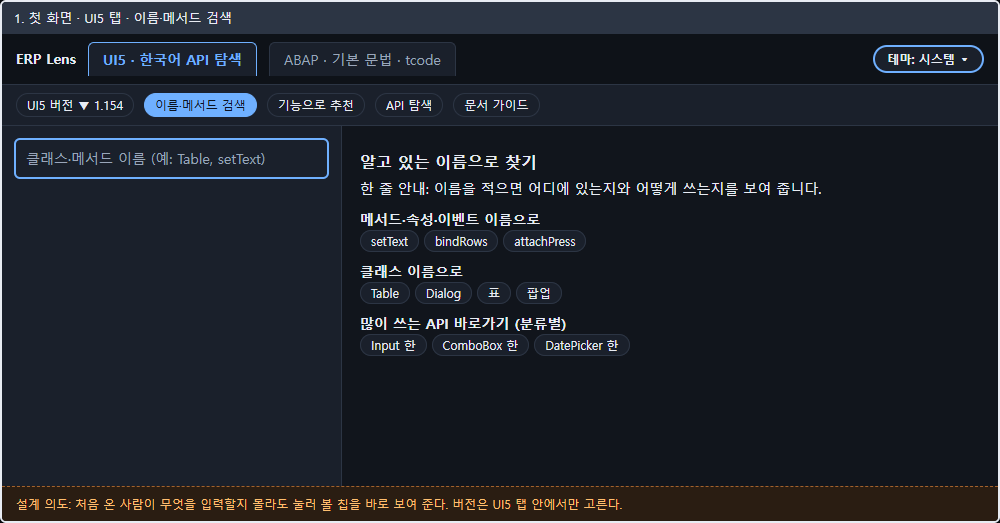
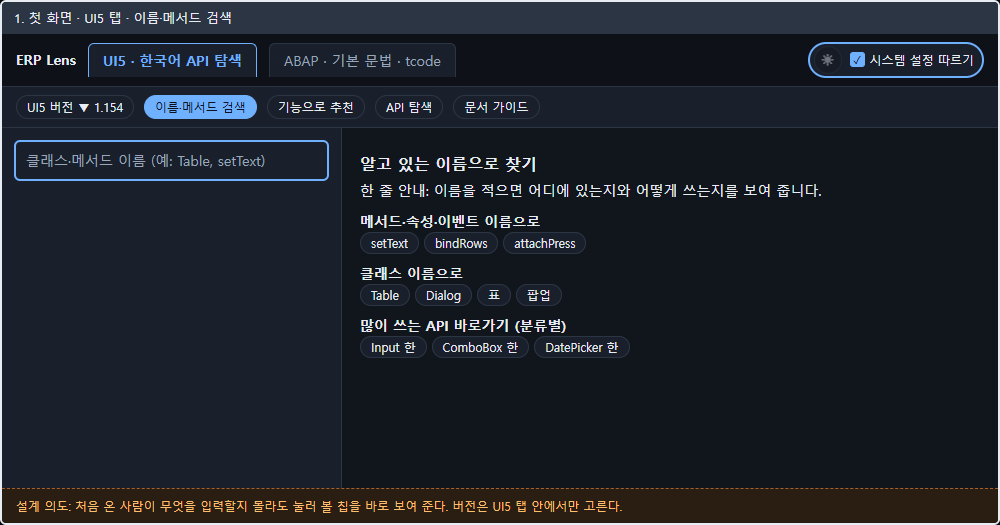
목업 수정: 테마 선택을 낮/밤 아이콘 버튼 + 시스템 설정 따르기 체크박스로 변경

diff --git a/docs/mockups/screens.html b/docs/mockups/screens.html
@@ -40,9 +40,15 @@
   .note { background:var(--warn); border:1px solid var(--warn-line); border-radius:6px; padding:6px 10px; font-size:12px; margin:8px 0; }
   .ann { margin:0; padding:8px 14px; background:var(--ann-bg); border-top:1px dashed var(--ann-line); font-size:12px; color:var(--ann-ink); }
   .muted { color:var(--mute); }
-  .theme { margin-left:auto; padding:3px 12px; border:1px solid var(--line); border-radius:999px; background:var(--box); font-size:12px; }
-  .theme.hl { border:2px solid var(--accent); font-weight:700; }
   .states { display:flex; gap:16px; padding:16px 18px; flex-wrap:wrap; }
+  .tctl { margin-left:auto; display:flex; align-items:center; gap:8px; padding:2px 8px 2px 4px; border:1px solid var(--line); border-radius:999px; background:var(--box); font-size:12px; }
+  .tctl.hl { border:2px solid var(--accent); }
+  .ibtn { display:inline-flex; width:28px; height:28px; align-items:center; justify-content:center; border:1px solid var(--line); border-radius:50%; background:var(--bg); font-size:15px; }
+  .ibtn.off { opacity:.4; }
+  .sys { display:flex; align-items:center; gap:5px; }
+  .cb { display:inline-flex; width:15px; height:15px; align-items:center; justify-content:center; border:1.5px solid var(--mute); border-radius:3px; font-size:11px; line-height:1; }
+  .cb.on { background:var(--accent); border-color:var(--accent); color:var(--on); }
+  .demo { display:flex; align-items:center; gap:8px; margin:6px 0; padding:4px 8px; border:1px solid var(--line); border-radius:999px; width:max-content; font-size:12px; }
   .st { border:1px solid var(--line); border-radius:8px; padding:10px 14px; background:var(--box); min-width:260px; flex:1; }
 </style>
 </head>
@@ -51,7 +57,7 @@
 
 <section class="screen" id="m1">
   <div class="cap">1. 첫 화면 · UI5 탭 · 이름·메서드 검색</div>
-  <div class="bar"><span class="logo">ERP Lens</span><span class="tab on">UI5 · 한국어 API 탐색</span><span class="tab abap">ABAP · 기본 문법 · tcode</span><span class="theme hl">테마: 시스템 ▾</span></div>
+  <div class="bar"><span class="logo">ERP Lens</span><span class="tab on">UI5 · 한국어 API 탐색</span><span class="tab abap">ABAP · 기본 문법 · tcode</span><span class="tctl hl"><span class="ibtn off" title="시스템 설정을 따르는 중">☀</span><label class="sys"><span class="cb on">✓</span> 시스템 설정 따르기</label></span></div>
   <div class="sub"><span class="chip">UI5 버전 ▼ 1.154</span><span class="chip on">이름·메서드 검색</span><span class="chip">기능으로 추천</span><span class="chip">API 탐색</span><span class="chip">문서 가이드</span></div>
   <div class="cols">
     <div class="left"><div class="input">클래스·메서드 이름 (예: Table, setText)</div></div>
@@ -68,7 +74,7 @@
 
 <section class="screen" id="m2">
   <div class="cap">2. 검색 결과 + API 상세 (왼쪽 후보, 오른쪽 상세)</div>
-  <div class="bar"><span class="logo">ERP Lens</span><span class="tab on">UI5</span><span class="tab abap">ABAP</span><span class="theme hl">테마: 시스템 ▾</span></div>
+  <div class="bar"><span class="logo">ERP Lens</span><span class="tab on">UI5</span><span class="tab abap">ABAP</span><span class="tctl hl"><span class="ibtn off" title="시스템 설정을 따르는 중">☀</span><label class="sys"><span class="cb on">✓</span> 시스템 설정 따르기</label></span></div>
   <div class="sub"><span class="chip on">전체 227</span><span class="chip">클래스 153</span><span class="chip">메서드 31</span><span class="chip">속성 31</span><span class="chip">이벤트 5</span></div>
   <div class="cols">
     <div class="left">
@@ -89,7 +95,7 @@
 
 <section class="screen" id="m3">
   <div class="cap">3. ABAP 탭 · 문법 사전</div>
-  <div class="bar"><span class="logo">ERP Lens</span><span class="tab">UI5</span><span class="tab on abap">ABAP · 65개+15개</span><span class="theme hl">테마: 시스템 ▾</span></div>
+  <div class="bar"><span class="logo">ERP Lens</span><span class="tab">UI5</span><span class="tab on abap">ABAP · 65개+15개</span><span class="tctl hl"><span class="ibtn off" title="시스템 설정을 따르는 중">☀</span><label class="sys"><span class="cb on">✓</span> 시스템 설정 따르기</label></span></div>
   <div class="sub"><span class="chip on abap">문법 사전 · 65개</span><span class="chip">tcode 사전 · 15개</span><span class="chip">버전 구분 없음</span></div>
   <div class="sub"><span class="chip on abap">전체 65</span><span class="chip">선언·데이터</span><span class="chip">제어문</span><span class="chip">내부 테이블</span><span class="chip">모듈화</span><span class="chip">…</span></div>
   <div class="cols">
@@ -113,7 +119,7 @@ DATA lv_name  TYPE string VALUE 'Kim'.</div>
 
 <section class="screen" id="m4">
   <div class="cap">4. ABAP 탭 · tcode 사전 (하고 싶은 일 또는 /n 명령으로 검색)</div>
-  <div class="bar"><span class="logo">ERP Lens</span><span class="tab">UI5</span><span class="tab on abap">ABAP</span><span class="theme hl">테마: 시스템 ▾</span></div>
+  <div class="bar"><span class="logo">ERP Lens</span><span class="tab">UI5</span><span class="tab on abap">ABAP</span><span class="tctl hl"><span class="ibtn off" title="시스템 설정을 따르는 중">☀</span><label class="sys"><span class="cb on">✓</span> 시스템 설정 따르기</label></span></div>
   <div class="sub"><span class="chip">문법 사전</span><span class="chip on abap">tcode 사전 · 15개</span></div>
   <div class="cols">
     <div class="left">
@@ -130,18 +136,24 @@ DATA lv_name  TYPE string VALUE 'Kim'.</div>
   <p class="ann">설계 의도: "/nse38" 처럼 명령을 붙여 쓰면 명령(/n)과 tcode(SE38)로 나누어 설명한다.</p>
 </section>
 <section class="screen" id="m5">
-  <div class="cap">5. 테마 선택 (새 기능) · 상단 바 오른쪽 버튼 하나, 누를 때마다 순서대로 바뀜</div>
-  <div class="bar"><span class="logo">ERP Lens</span><span class="tab on">UI5</span><span class="tab abap">ABAP</span><span class="theme hl">테마: 시스템 ▾</span></div>
+  <div class="cap">5. 테마 선택 (새 기능) · 낮/밤 아이콘 버튼 + "시스템 설정 따르기" 체크박스</div>
+  <div class="bar"><span class="logo">ERP Lens</span><span class="tab on">UI5</span><span class="tab abap">ABAP</span><span class="tctl hl"><span class="ibtn off">☀</span><label class="sys"><span class="cb on">✓</span> 시스템 설정 따르기</label></span></div>
   <div class="states">
-    <div class="st"><b>① 시스템 (기본값)</b><div>버튼 글자: <span class="chip">테마: 시스템</span></div><div class="muted">내 컴퓨터가 다크면 다크, 라이트면 라이트로 보입니다. 저장된 선택이 없을 때의 상태입니다.</div></div>
-    <div class="st"><b>② 라이트</b><div>버튼 글자: <span class="chip">테마: 라이트</span></div><div class="muted">시스템 설정과 상관없이 항상 밝게 보입니다.</div></div>
-    <div class="st"><b>③ 다크</b><div>버튼 글자: <span class="chip">테마: 다크</span></div><div class="muted">시스템 설정과 상관없이 항상 어둡게 보입니다. 다음 클릭은 ①로 돌아갑니다.</div></div>
+    <div class="st"><b>① 체크함 (기본값)</b>
+      <div class="demo"><span class="ibtn off">🌙</span><label class="sys"><span class="cb on">✓</span> 시스템 설정 따르기</label></div>
+      <div class="muted">컴퓨터가 다크면 다크, 라이트면 라이트로 보입니다. 아이콘은 지금 보이는 모드를 알려 주기만 하고 흐리게 표시되며 눌러도 바뀌지 않습니다.</div></div>
+    <div class="st"><b>② 체크 해제 + 라이트</b>
+      <div class="demo"><span class="ibtn">☀</span><label class="sys"><span class="cb"></span> 시스템 설정 따르기</label></div>
+      <div class="muted">항상 밝게 보입니다. 아이콘(해)을 누르면 ③으로 바뀝니다.</div></div>
+    <div class="st"><b>③ 체크 해제 + 다크</b>
+      <div class="demo"><span class="ibtn">🌙</span><label class="sys"><span class="cb"></span> 시스템 설정 따르기</label></div>
+      <div class="muted">항상 어둡게 보입니다. 아이콘(달)을 누르면 ②로 바뀝니다.</div></div>
   </div>
   <div class="states">
-    <div class="st"><b>동작 규칙</b><div class="muted">· 선택은 이 브라우저에만 저장(서버·계정 없음)<br>· 저장이 막힌 환경에서도 화면은 정상, 선택만 유지 안 됨<br>· 버튼은 색이 아니라 글자로 현재 상태를 알림<br>· 키보드(Tab → Enter)로 조작 가능</div></div>
+    <div class="st"><b>동작 규칙</b><div class="muted">· 체크를 해제하면 지금 보이는 모드 그대로 시작하고, 이후 아이콘으로 라이트↔다크를 바꿉니다<br>· 다시 체크하면 시스템 설정을 따릅니다<br>· 선택은 이 브라우저에만 저장(서버·계정 없음). 저장이 막혀도 화면은 정상<br>· 아이콘만 있으면 뜻이 안 보이므로 마우스를 올리면 "라이트로 전환"/"다크로 전환" 안내, 화면 낭독기용 이름도 같은 글자<br>· 키보드(Tab → Space/Enter)로 둘 다 조작 가능</div></div>
     <div class="st"><b>화면에 영향 없는 곳</b><div class="muted">예제 실행 창(격리된 iframe)과 보안 설정은 그대로입니다. 색 팔레트도 지금 다크 색을 그대로 씁니다.</div></div>
   </div>
-  <p class="ann">설계 의도: 버튼을 하나만 두어 상단 바가 복잡해지지 않게 하고, 시스템을 따르는 기본 동작을 잃지 않게 한다.</p>
+  <p class="ann">설계 의도: 한눈에 뜻이 통하는 아이콘 하나로 직접 고르고, "시스템 설정 따르기"는 체크박스로 분리해 기본 동작(시스템을 따름)을 잃지 않게 한다.</p>
 </section>
 </body>
 </html>
